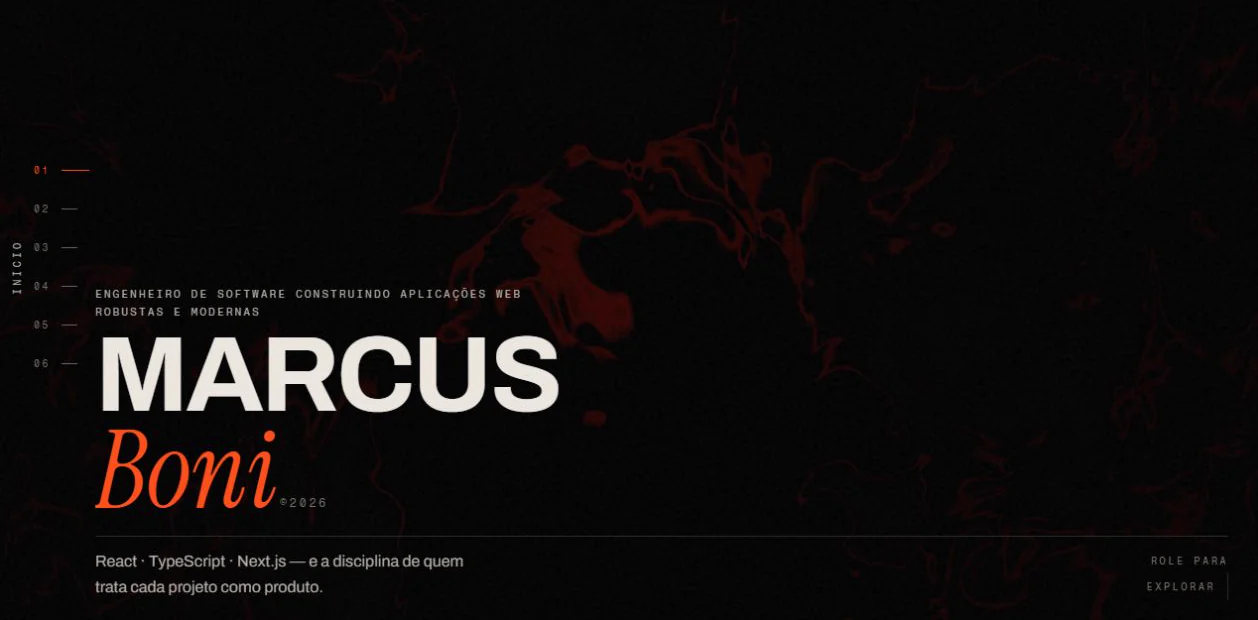
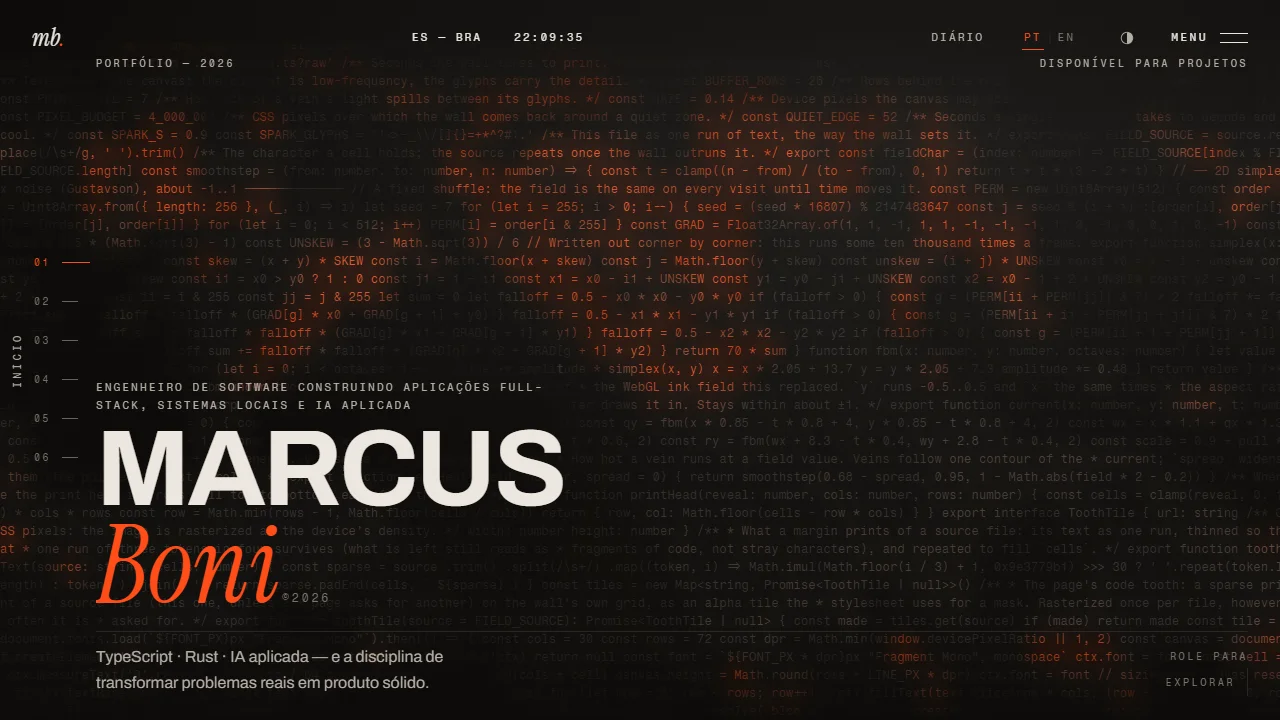
docs(readme): show the current site in the screenshots
- recapture the opening in dark and light, now with the source field
- replace the outdated portrait print with the About section as it is
- add the code margins, and a short heading per figure

diff --git a/README.md b/README.md
@@ -12,19 +12,39 @@ Uma seleção do que construo, dos problemas que resolvo e do que aprendo no cam
   <picture>
     <source media="(prefers-color-scheme: dark)" srcset="./docs/readme/portfolio-dark.webp">
     <source media="(prefers-color-scheme: light)" srcset="./docs/readme/portfolio-light.webp">
-    <img src="./docs/readme/portfolio-dark.webp" alt="Página inicial do portfólio. O nome Marcus Boni aparece em tipografia editorial sobre um campo de tinta.">
+    <img src="./docs/readme/portfolio-dark.webp" alt="Página inicial do portfólio. O nome Marcus Boni aparece em tipografia editorial sobre uma parede com o código-fonte do próprio site, com trechos acesos em laranja.">
   </picture>
 </a>
 
 ## A experiência
 
-Signal & Ink combina tipografia editorial com gráficos desenhados em código. Na abertura, o código do próprio site é impresso atrás do nome e aceso por uma corrente que reage ao movimento. A galeria reúne projetos como **ISPer**, **OptTime**, **Meeting Copilot** e **Auto Daily**, ao lado de entregas ponta a ponta junto a clientes em aplicações web, sistemas locais e IA aplicada.
+Signal & Ink combina tipografia editorial com gráficos desenhados em código, em tema escuro e claro. A galeria reúne projetos como **ISPer**, **OptTime**, **Meeting Copilot** e **Auto Daily**, ao lado de entregas ponta a ponta junto a clientes em aplicações web, sistemas locais e IA aplicada.
 
-Na seção [Sobre](https://marcusboni.com.br/#about), o busto cromado é desenhado em **ASCII animado** em Canvas 2D — monta linha por linha e mantém um reflexo especular suave enquanto está visível, acompanhando o tema claro ou escuro e respeitando `prefers-reduced-motion`.
+### A abertura imprime o próprio código
 
-![O mesmo retrato em dois estados: caracteres no tema claro à esquerda e fotografia em preto e branco à direita.](./docs/readme/retrato-codigo.webp)
+O texto atrás do nome é o arquivo que desenha a abertura, [`src/animations/codeField.ts`](./src/animations/codeField.ts). Ele é impresso linha a linha na entrada e aceso por uma corrente de ruído que reage ao cursor e à rolagem. A parede recua em volta dos textos pequenos para não disputar com eles.
 
-*Quadro em código → fotografia revelada.*
+### O retrato em ASCII
+
+Na seção [Sobre](https://marcusboni.com.br/#about), o busto cromado é desenhado em caracteres. Ele monta linha por linha e mantém um reflexo suave enquanto está visível.
+
+<picture>
+  <source media="(prefers-color-scheme: dark)" srcset="./docs/readme/retrato-codigo-dark.webp">
+  <source media="(prefers-color-scheme: light)" srcset="./docs/readme/retrato-codigo-light.webp">
+  <img src="./docs/readme/retrato-codigo-dark.webp" alt="Seção Sobre. À esquerda, a frase de apresentação em serifa; à direita, o busto desenhado em caracteres ASCII.">
+</picture>
+
+### As margens mostram o código de cada seção
+
+Em telas largas, as margens carregam fragmentos do componente da seção em vista, e a borda direita indica o arquivo. Nada ali se move sozinho.
+
+<picture>
+  <source media="(prefers-color-scheme: dark)" srcset="./docs/readme/margens-codigo-dark.webp">
+  <source media="(prefers-color-scheme: light)" srcset="./docs/readme/margens-codigo-light.webp">
+  <img src="./docs/readme/margens-codigo-dark.webp" alt="Seção Stack. Nas duas margens aparecem fragmentos de código em tom discreto, e na borda direita o caminho src/components/sections/Stack.tsx.">
+</picture>
+
+Tudo isso é Canvas 2D e CSS, sem WebGL, acompanha o tema e respeita `prefers-reduced-motion`.
 
 ## Por trás do site
 
